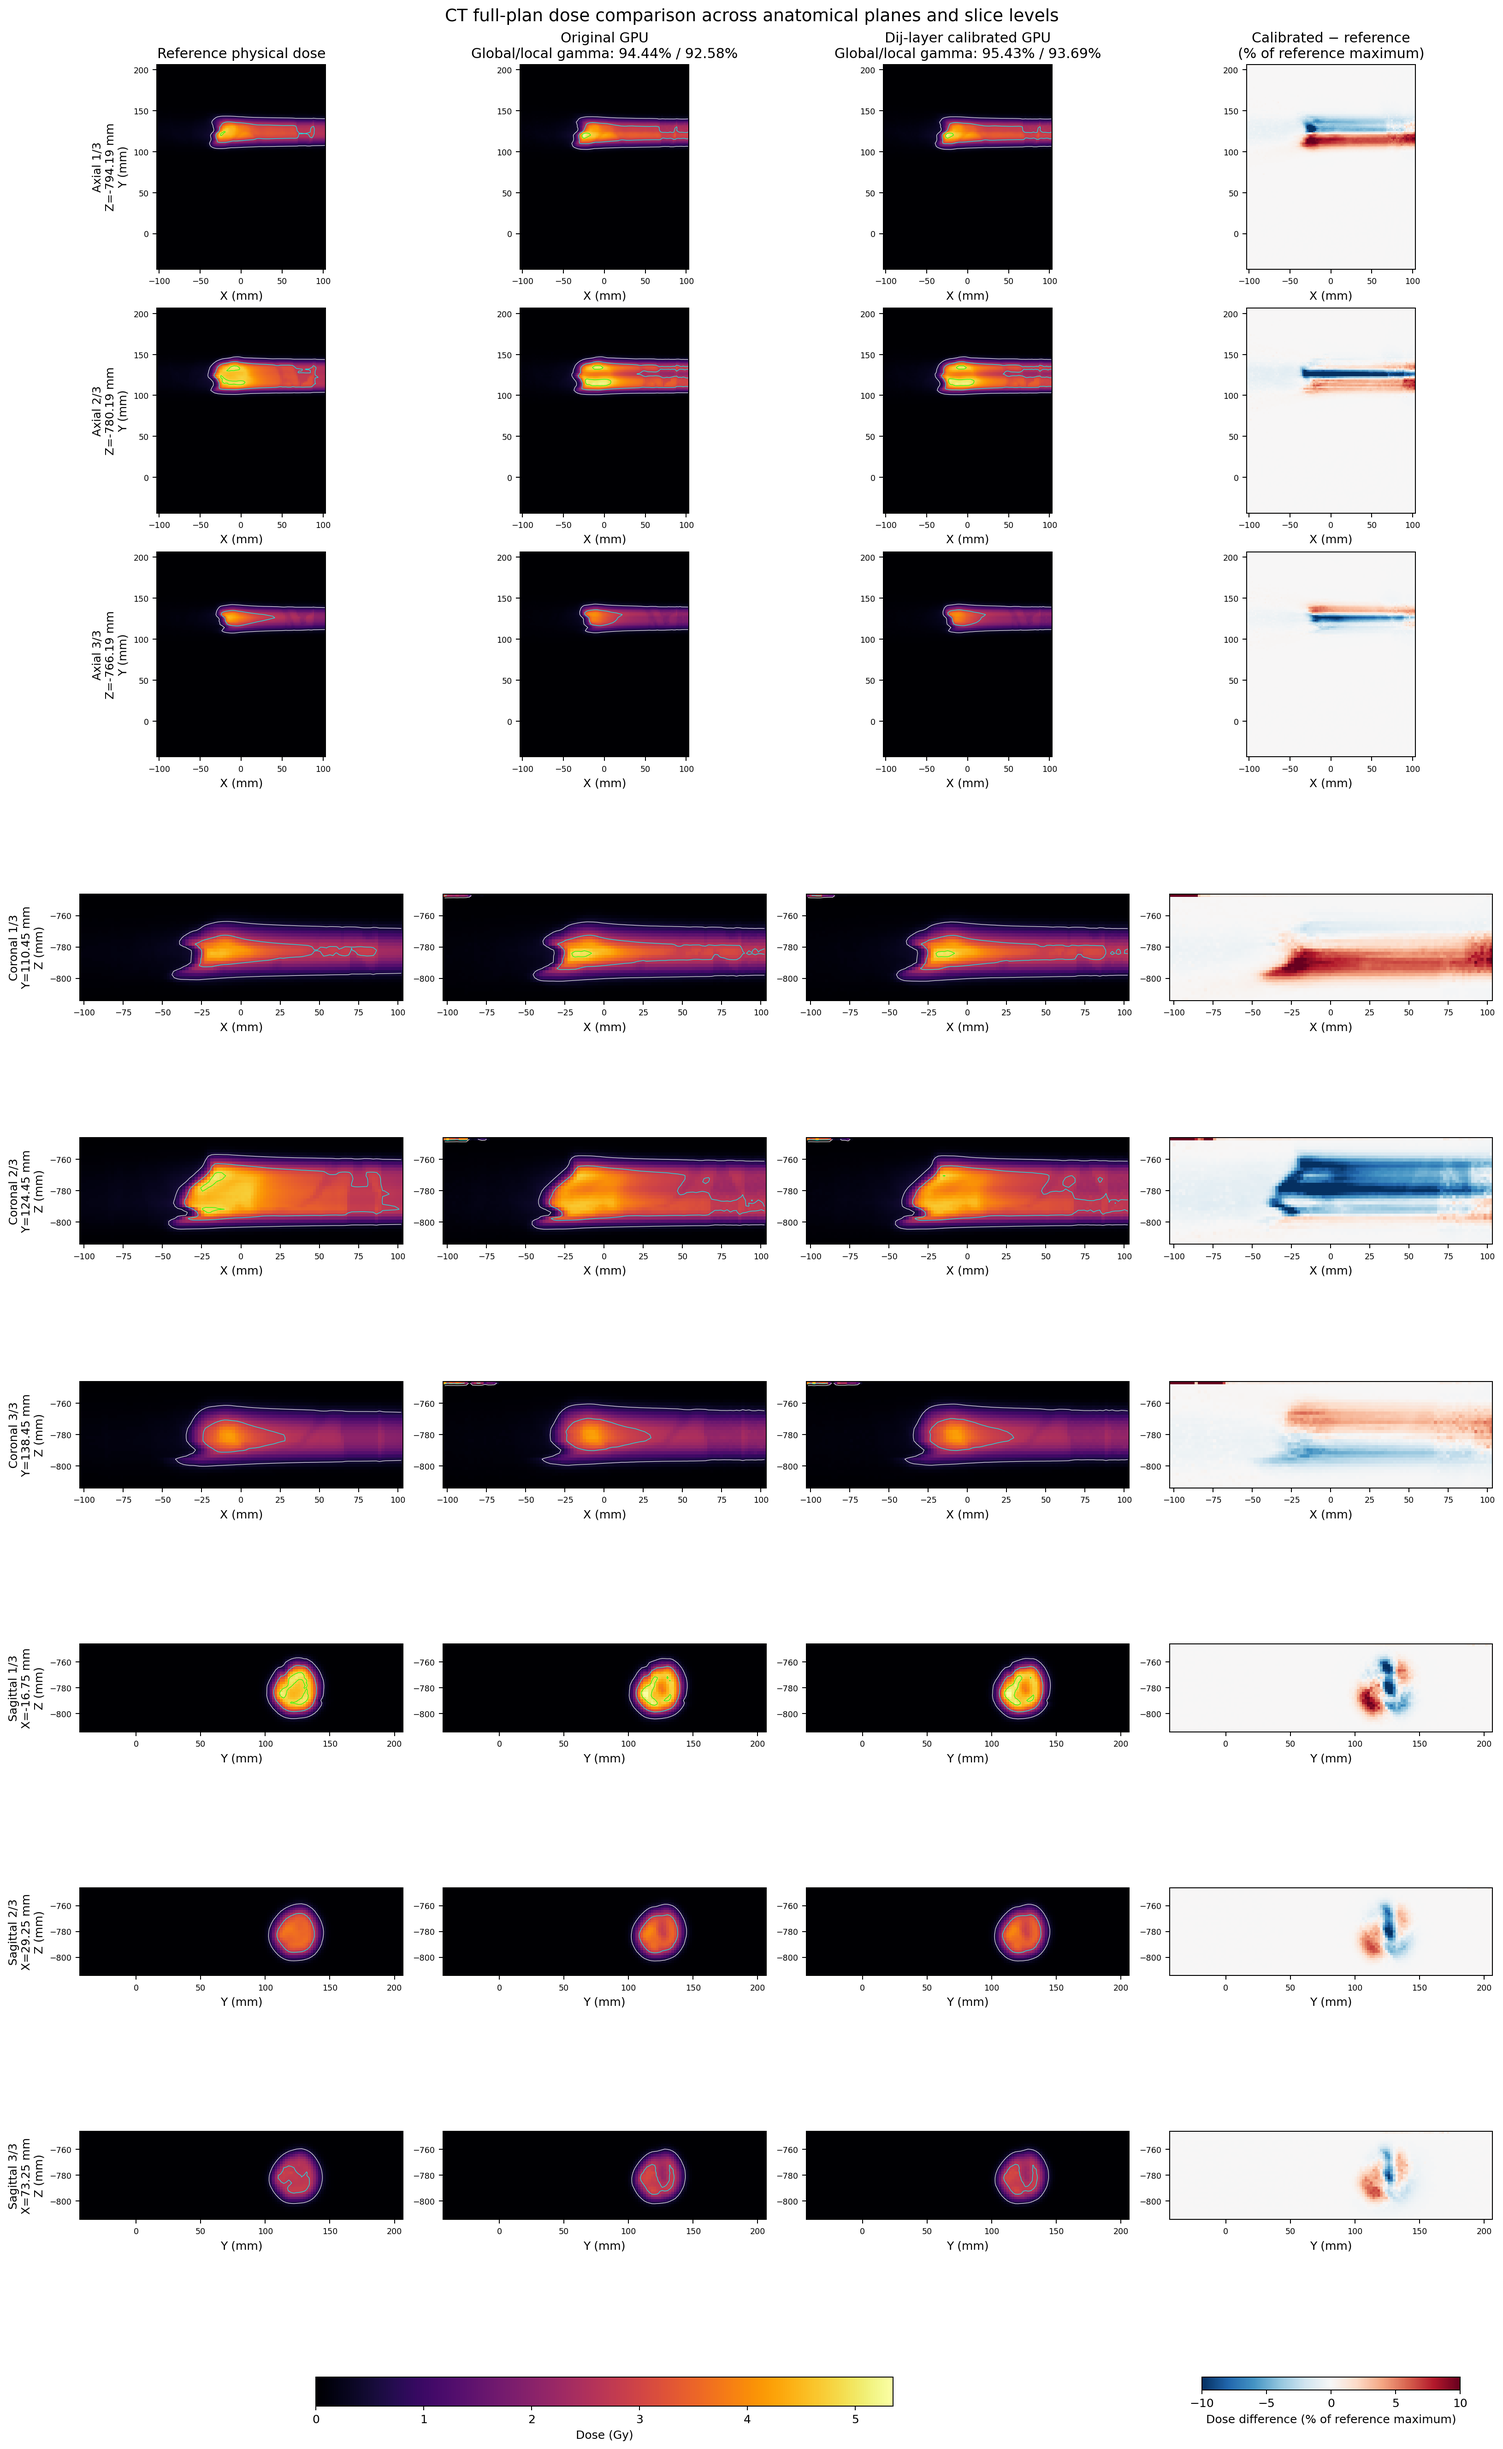
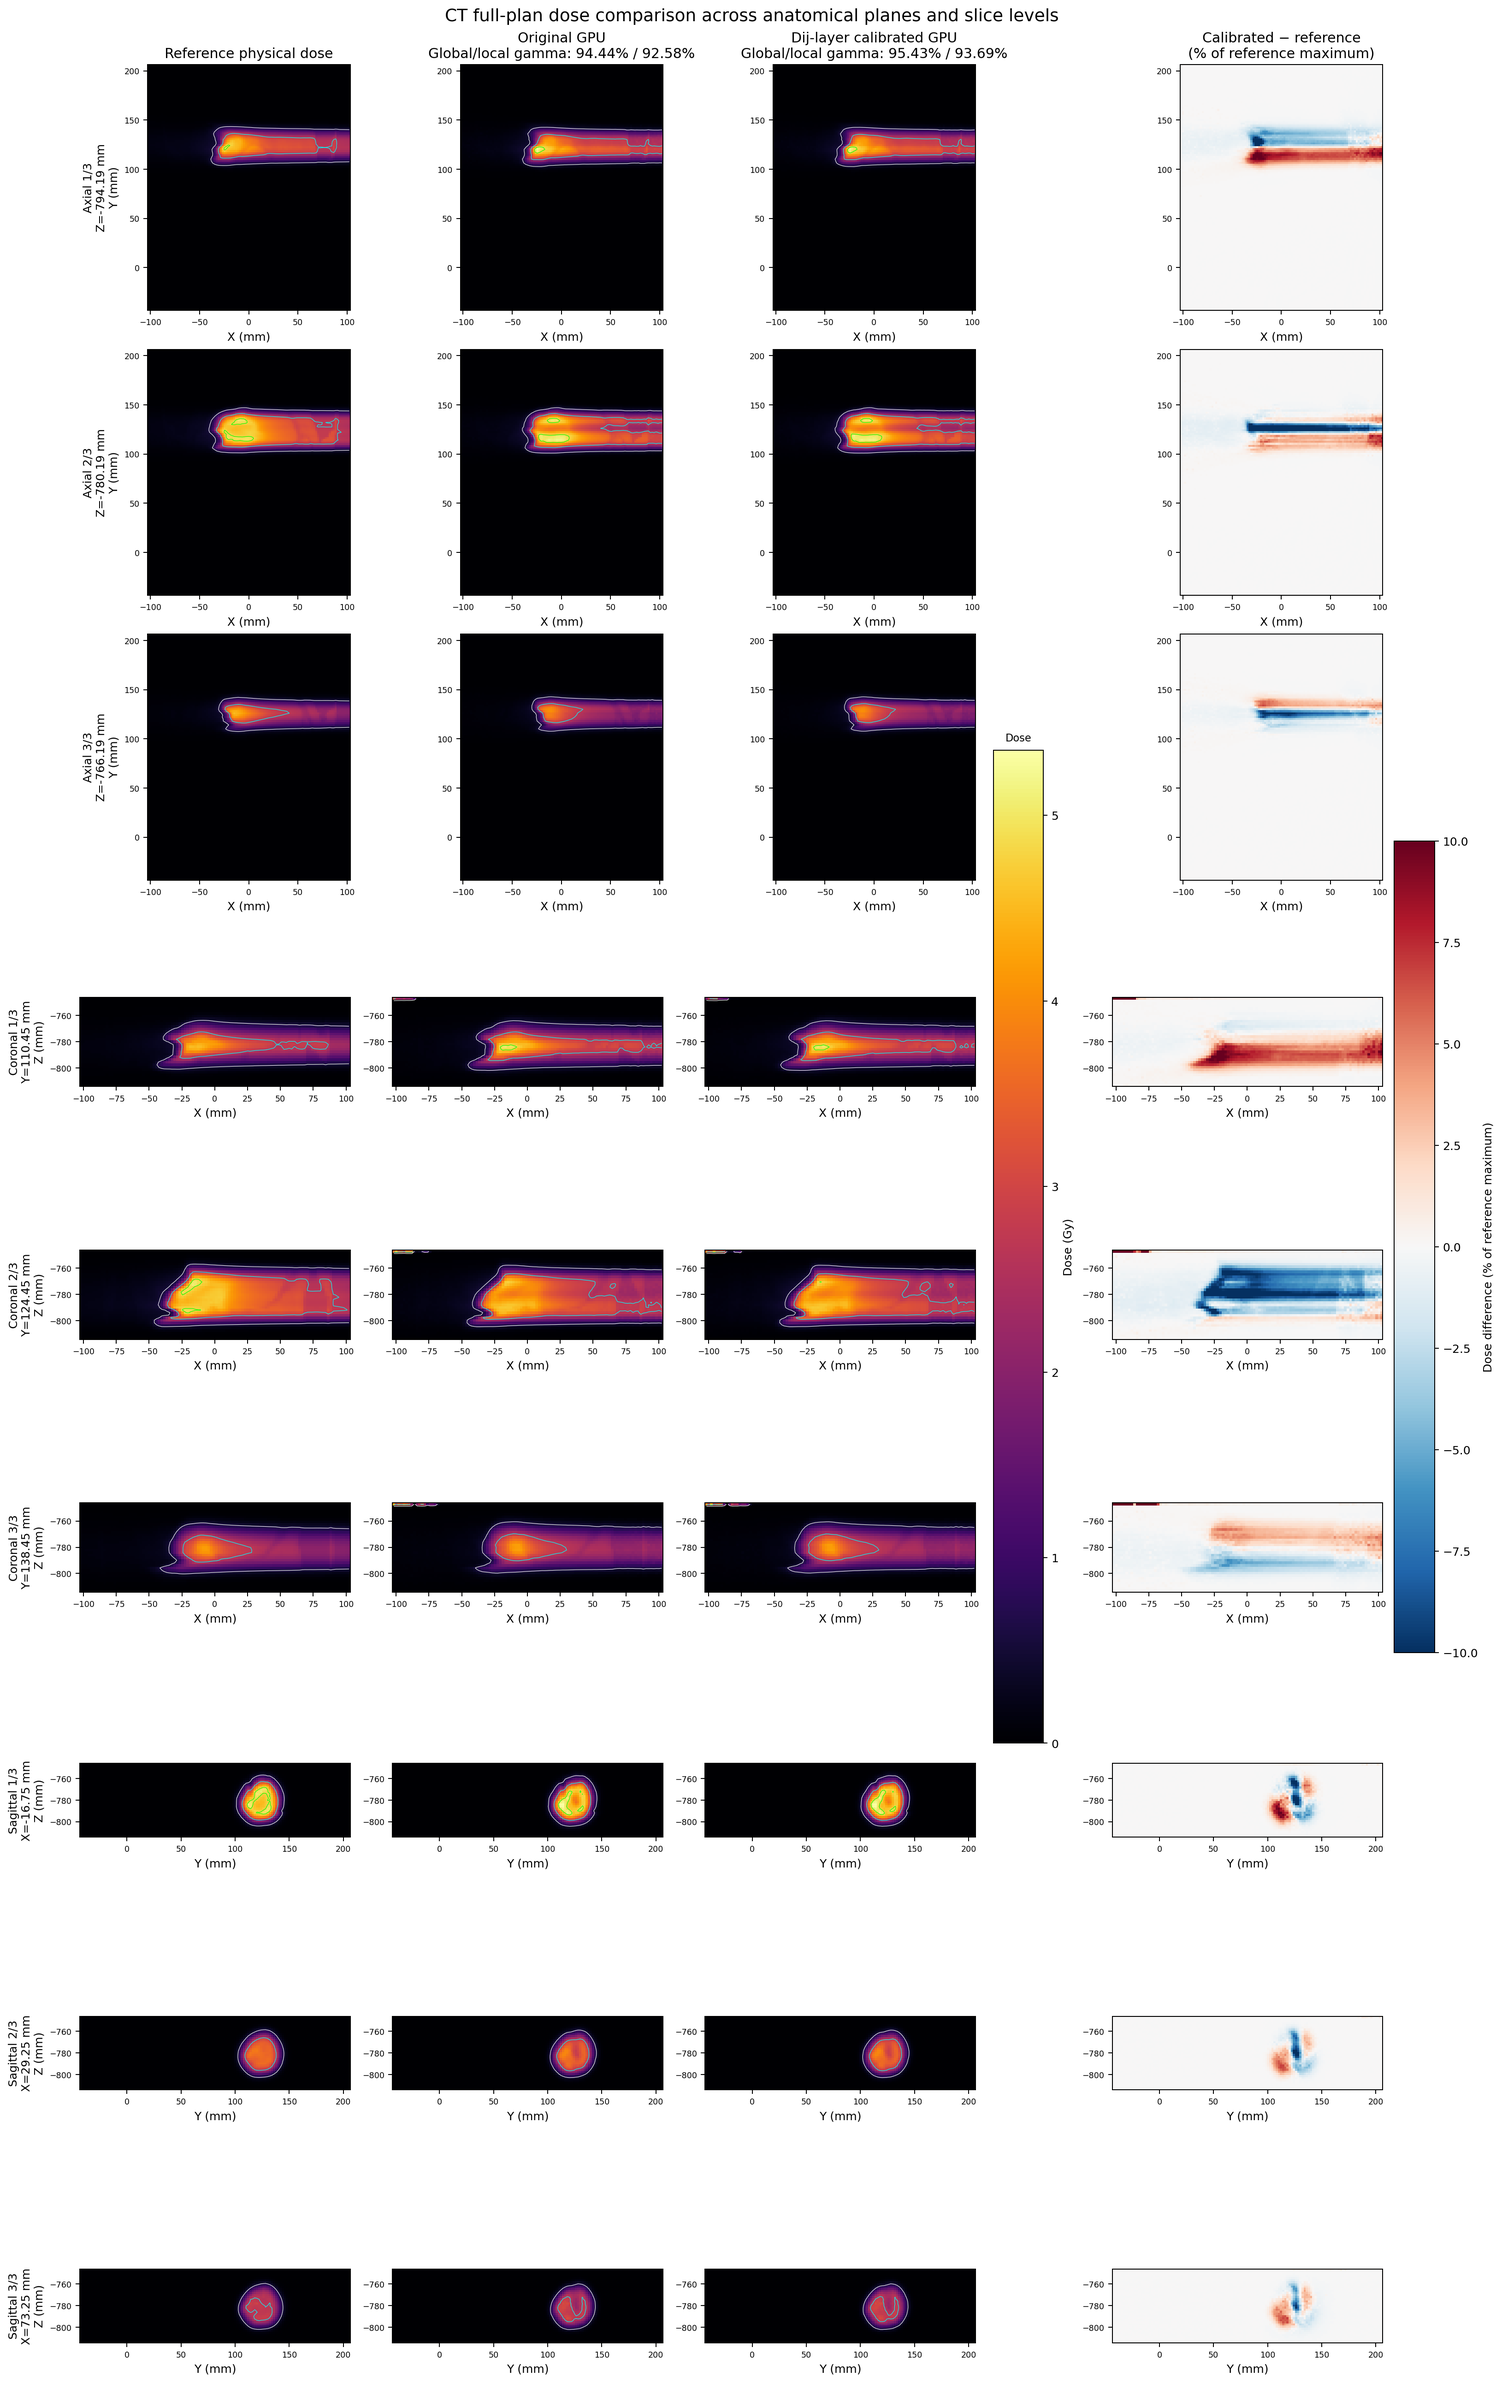
Make dose comparison colorbars visible

diff --git a/validation/scripts/plot_ct_multiplanar_dose_comparison.py b/validation/scripts/plot_ct_multiplanar_dose_comparison.py
@@ -144,12 +144,21 @@ def main() -> int:
     for column, title in enumerate(titles):
         axes[0, column].set_title(title, fontsize=12)
     assert dose_image is not None and diff_image is not None
-    fig.colorbar(dose_image, ax=axes[:, :3], location="bottom", shrink=0.55, label="Dose (Gy)")
+    dose_colorbar = fig.colorbar(
+        dose_image,
+        ax=axes[:, :3],
+        location="right",
+        shrink=0.42,
+        pad=0.015,
+        label="Dose (Gy)",
+    )
+    dose_colorbar.ax.set_title("Dose", fontsize=9, pad=8)
     fig.colorbar(
         diff_image,
         ax=axes[:, 3],
-        location="bottom",
-        shrink=0.8,
+        location="right",
+        shrink=0.42,
+        pad=0.025,
         label="Dose difference (% of reference maximum)",
     )
     fig.suptitle(
